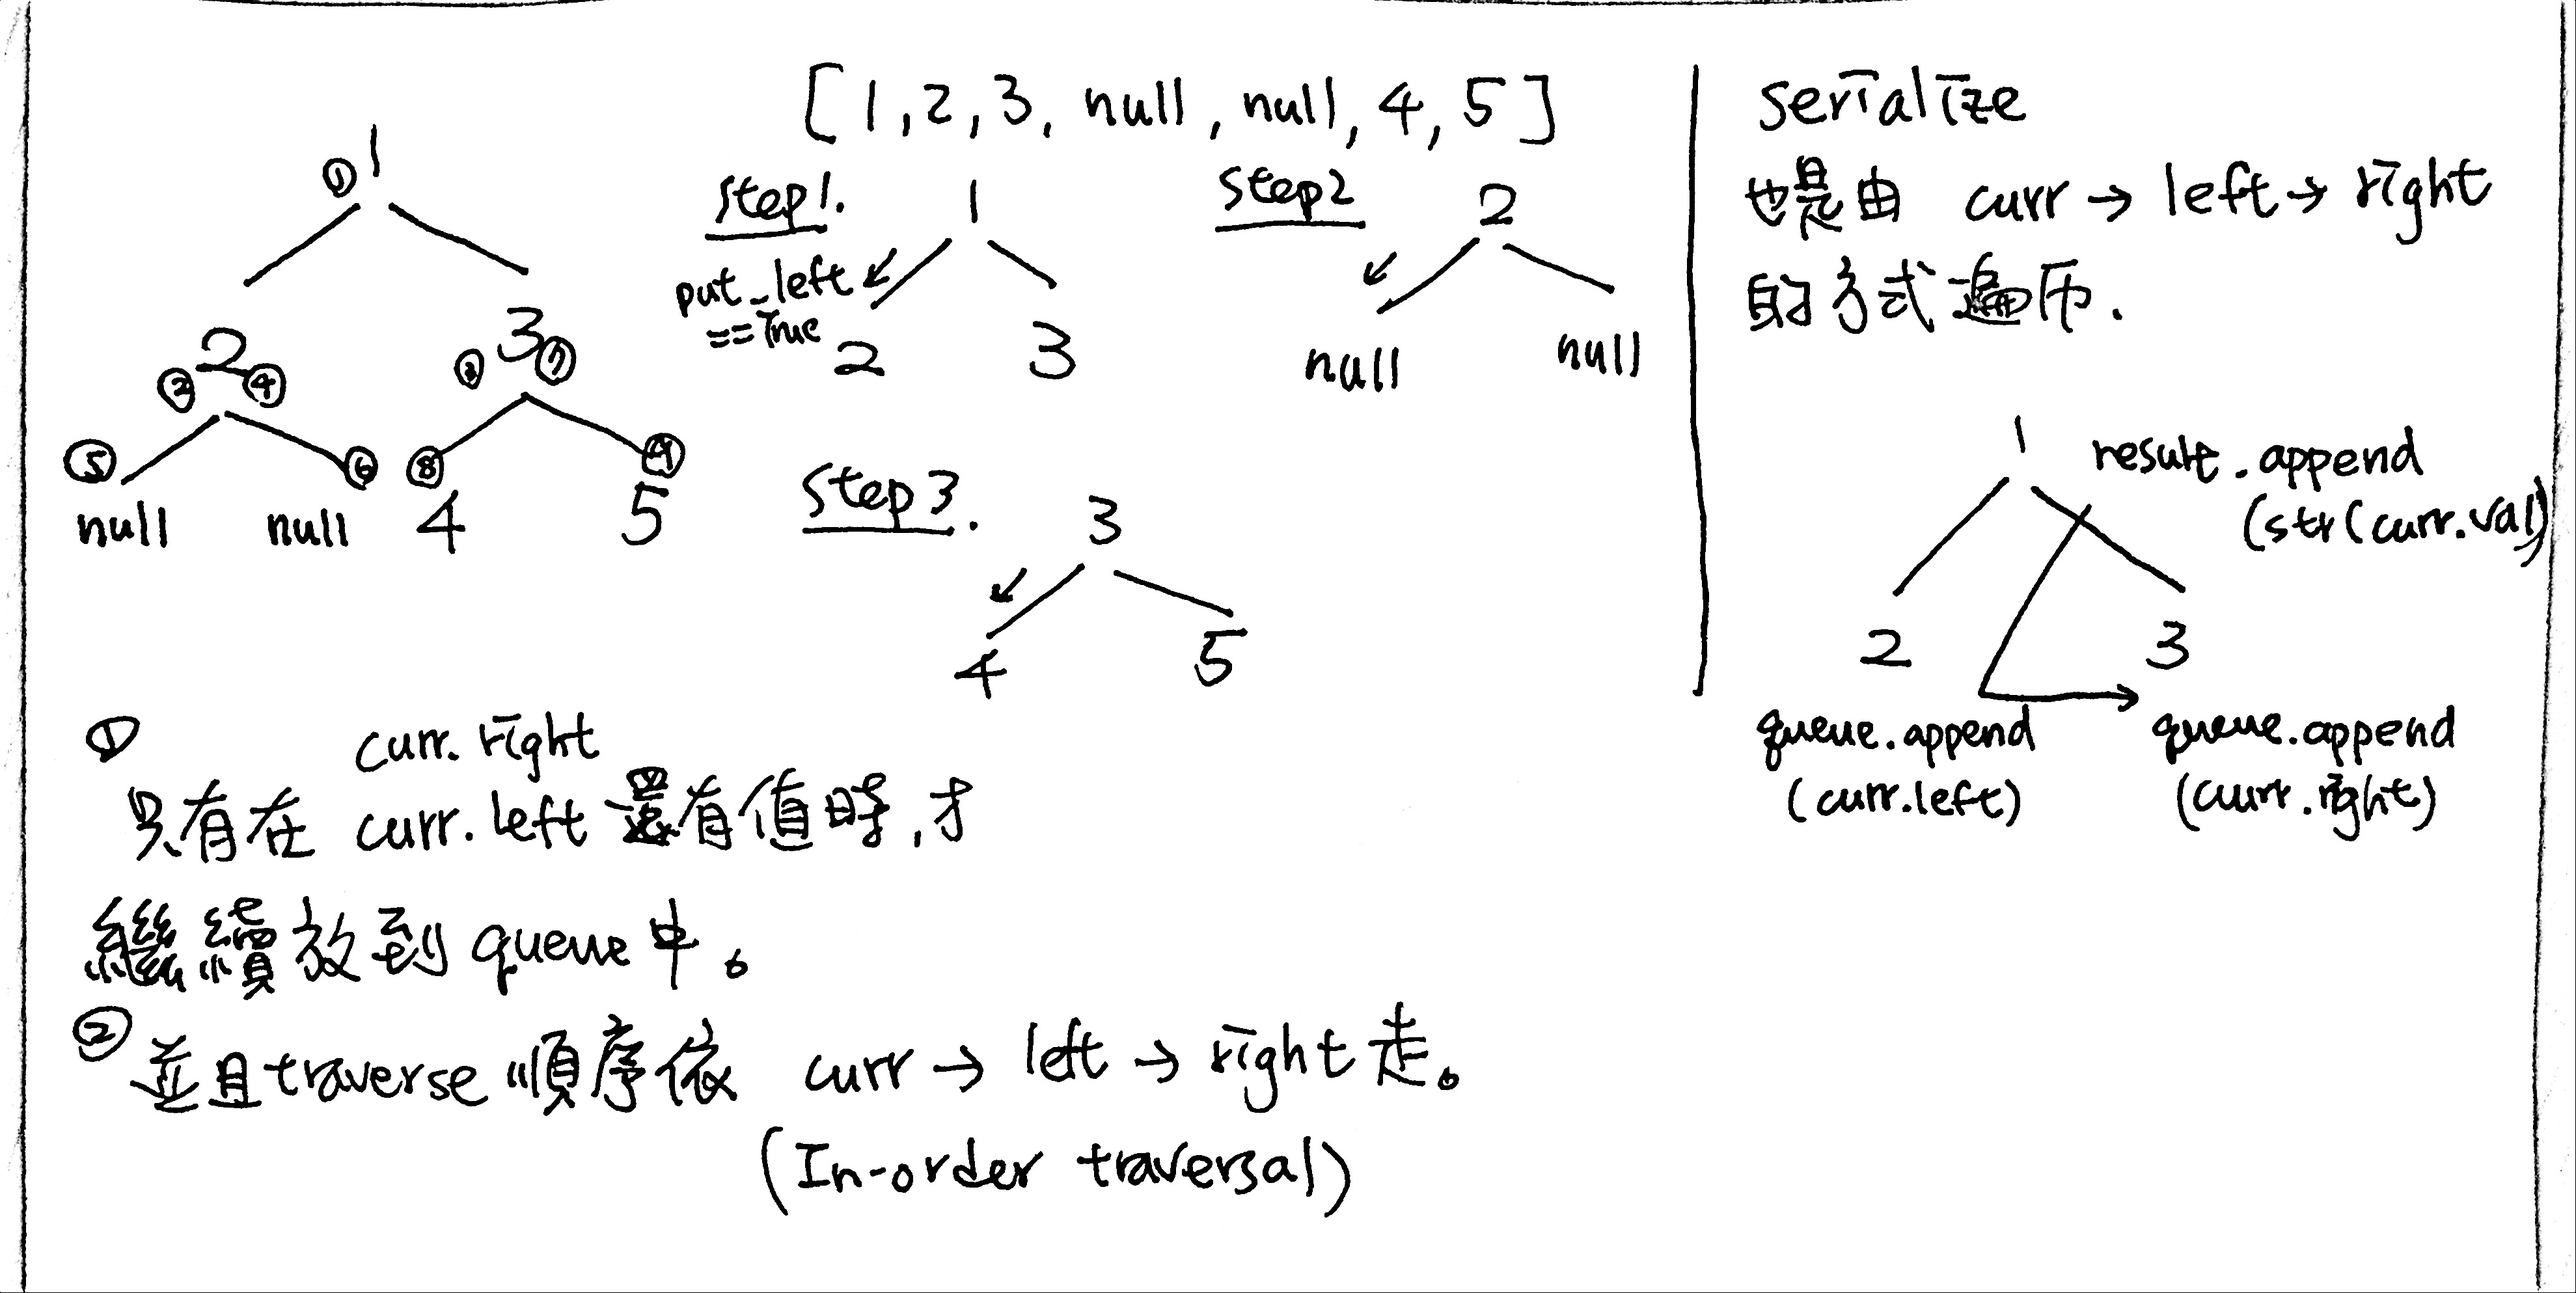
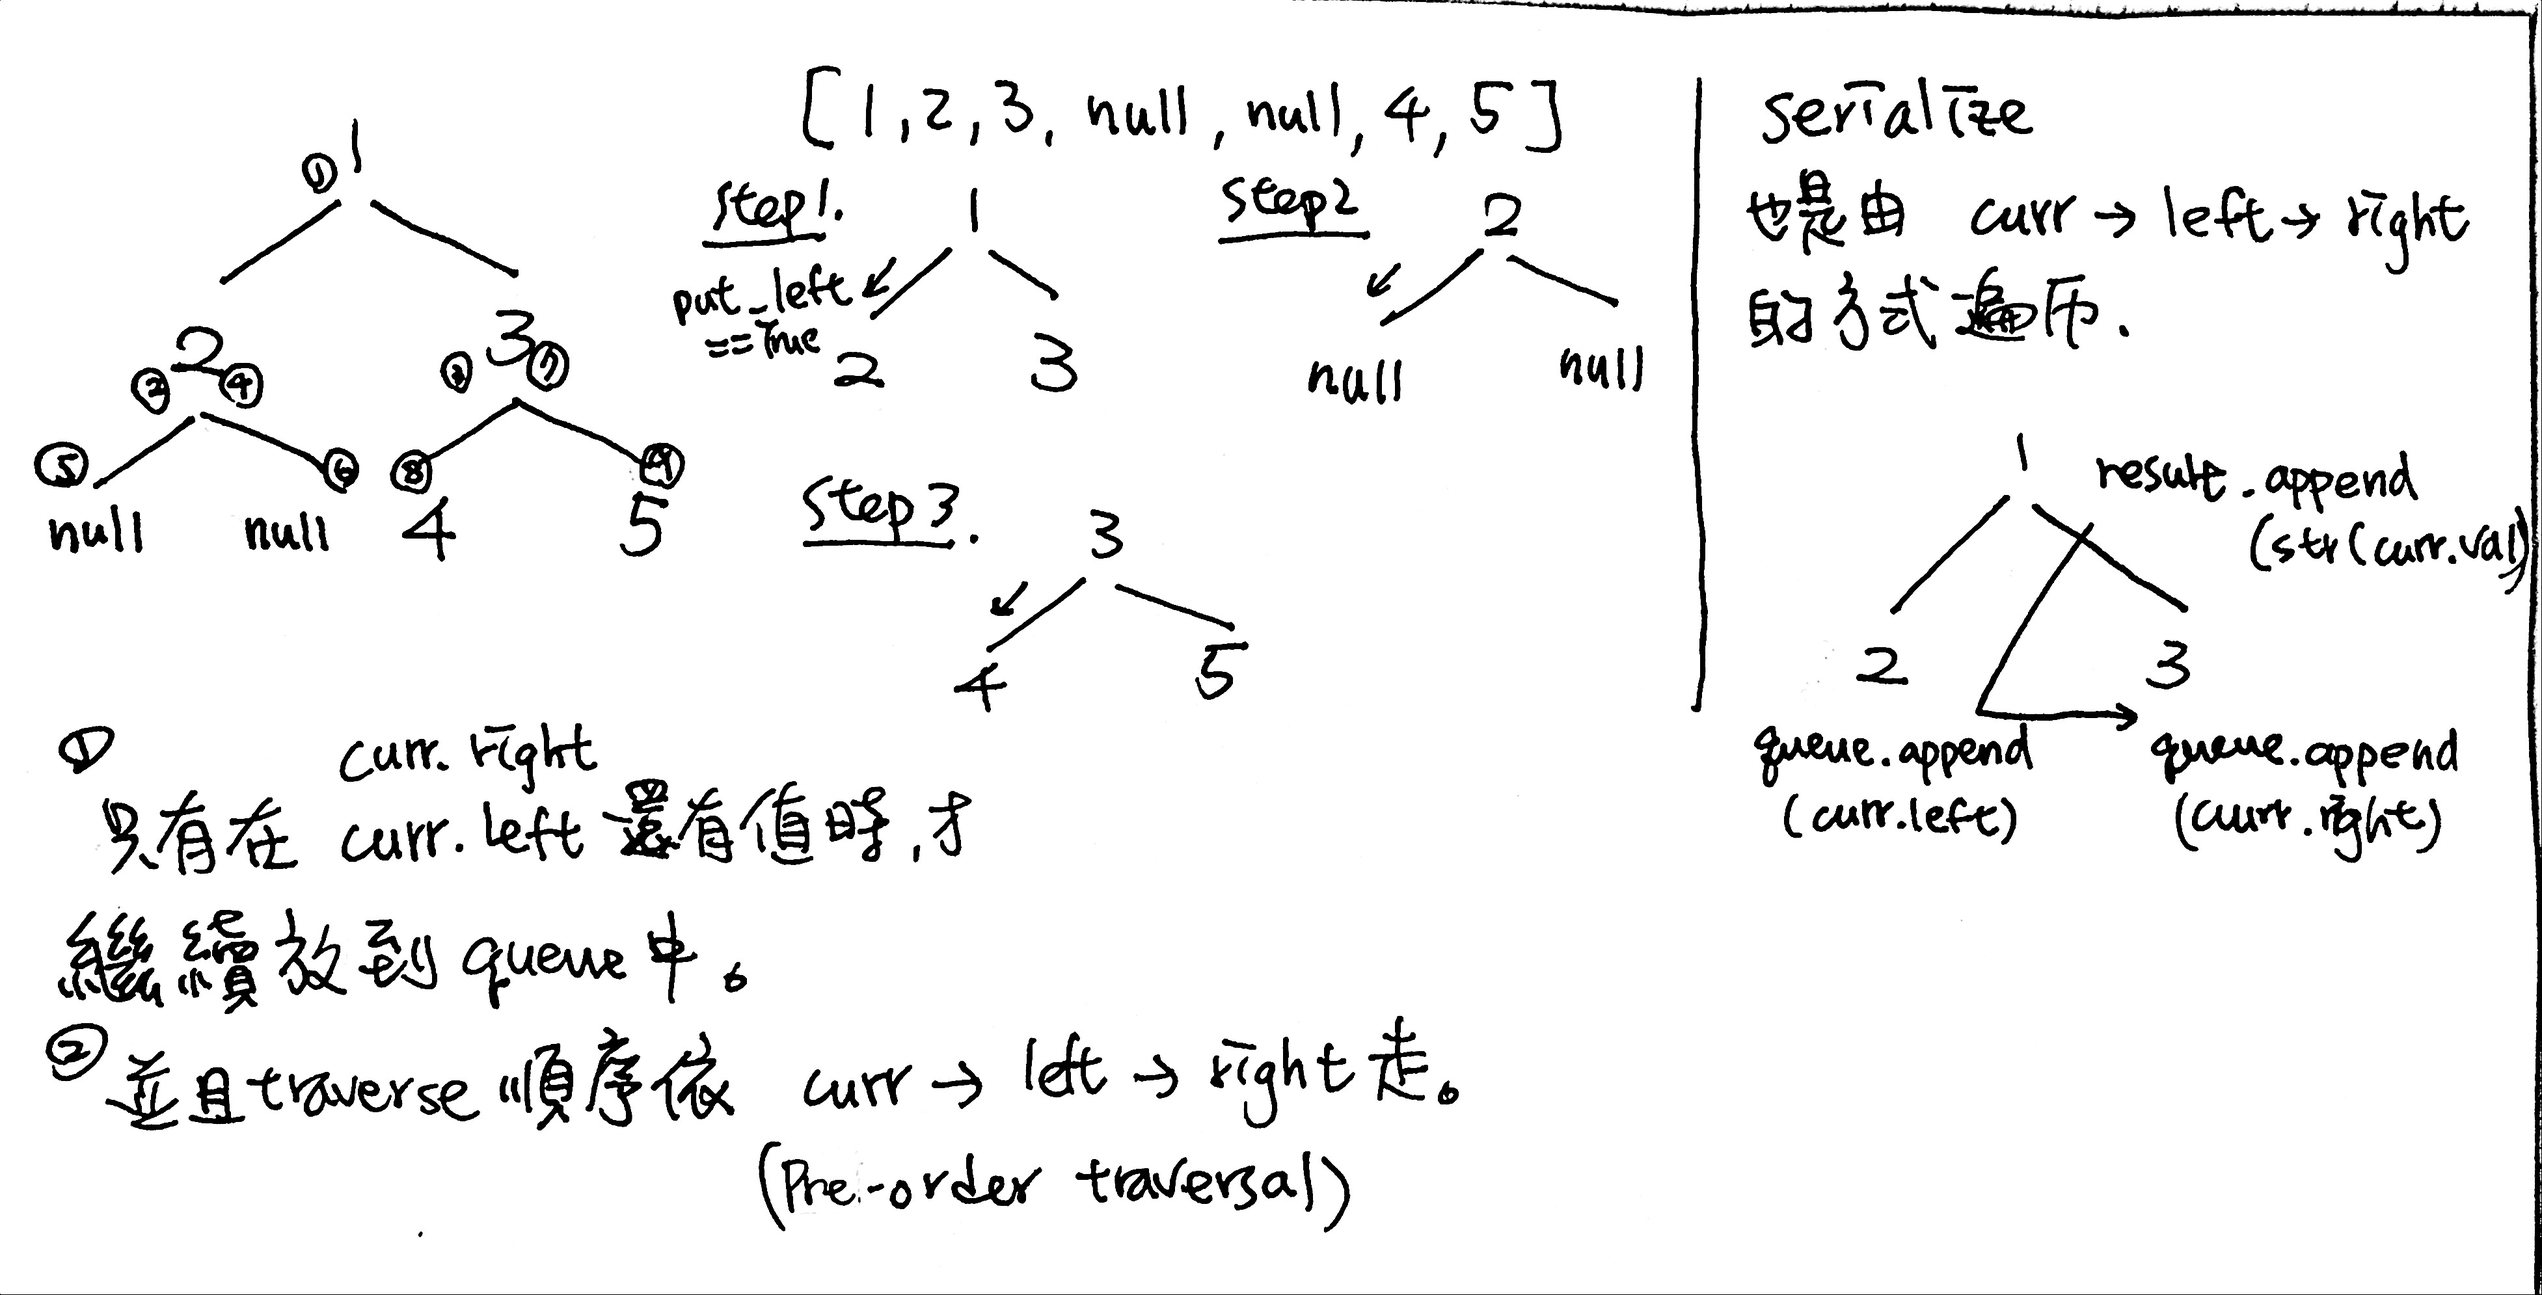
GitBook: [master] 2 pages and 2 assets modified

diff --git a/shu-ju-jie-gou/binary-tree/hard-serialize-and-deserialize-a-binary-tree.md b/shu-ju-jie-gou/binary-tree/hard-serialize-and-deserialize-a-binary-tree.md
@@ -25,12 +25,28 @@ as "[1,2,3,null,null,4,5]"
 
 ### 1. BFS Iterative: O\(n\)/O\(n\)
 
-> Serialization: binary tree nodes -&gt; data \(list\)  
-> ssss
+> **Serialization**: binary tree nodes -&gt; data \(list\)  
+> 用Pre-order Traversal的方式遍歷"`curr -> curr.left -> curr.right`"：  
+> `result.append(curr.val)  
+> queue.append(curr.left)  
+> queue.append(curr.right)`
 
 > **Deserialization: data -&gt; binary tree nodes**  
-> 用BFS可以一層一層放node。用  
-> “`curr -> curr.left (put_left == True) -> curr.right (put_left == False)`" 的順序放。
+> 用BFS可以一層一層放node。用Pre-order Traversal的方式從1-&gt;len\(all\_nodes\)遍歷。  
+> “`curr -> curr.left (put_left == True) -> curr.right (put_left == False)`" 的順序放。  
+> 由於是用中-&gt;左-&gt;右的順序放，我們需要一個額外put\_Left的boolean來決定，是否要放在左邊，還是右邊。每一次放完後，就**Flip** put\_left = not put\_left。這裡有一點需要注意：  
+> \(1\) curr = queue.popleft\(\) 只有在put\_left == True時才需要
+>
+> ```python
+> while len(queue)不為0:
+>     depth += 1
+>     n = queue中元素的個數
+>     for 循環 n 次：              ==>    for _ in range(1, len(all_nodes))
+>         node = queue.popleft()             if put_left == True: 
+>                                                curr = queue.popleft()
+>                                                curr.left = ....
+>                                                # put curr.left into the queue
+> ```
 
 ```python
 # Definition for a binary tree node.
@@ -55,7 +71,7 @@ class Codec:
         while len(queue) != 0:
             curr = queue.popleft()
             
-            # NOTE: in-order traversal
+            # NOTE: pre-order traversal
             # 中-left-right
             if curr != None:
                 result.append(curr.val) # 易錯點: convert to str 
@@ -124,5 +140,23 @@ class Codec:
         else:
             return TreeNode(int(s))
                 
+```
+
+### 2. BFS Recursive
+
+```python
+# Definition for a binary tree node.
+# class TreeNode(object):
+#     def __init__(self, x):
+#         self.val = x
+#         self.left = None
+#         self.right = None
+class Codec:
+    def serialize(self, root):
+        
+        
+
+    def deserialize(self, data):
+        
 ```
 

diff --git a/shu-ju-jie-gou/binary-tree/README.md b/shu-ju-jie-gou/binary-tree/README.md
@@ -1,2 +1,43 @@
 # Binary Tree
 
+## Binary Tree Traversal 
+
+### 1. Pre-order Traversal: **Root-Left-Right** \(根左右\)  
+
+```python
+Pre-order Recursive 模板
+
+def pre_order(self, root, result):
+    if not root:
+        return 
+    result.append(root.val)        #根
+    pre_order(root.left, result)   #左
+    pre_order(root.right, result)  #右
+```
+
+### 2. In-order Traversal: **Left-Root-Right** \(左根右\)
+
+```python
+In-order Recursive 模板
+
+def in_order(self, root, result):
+    if not root:
+        return 
+    in_order(root.left, result)     #左
+    result.append(root.val)         #根
+    in_order(root.right, result)    #右
+```
+
+### 3. Post-order Traversal: Left-Right-Root \(左右根\)
+
+```python
+Post-order Recursive模板
+
+def post_order(self, root, result):
+    if not root:
+        return 
+    post_order(root.left, result)   #左
+    post_order(root.right, result)  #右
+    post_order(root.val)            #根
+```
+
